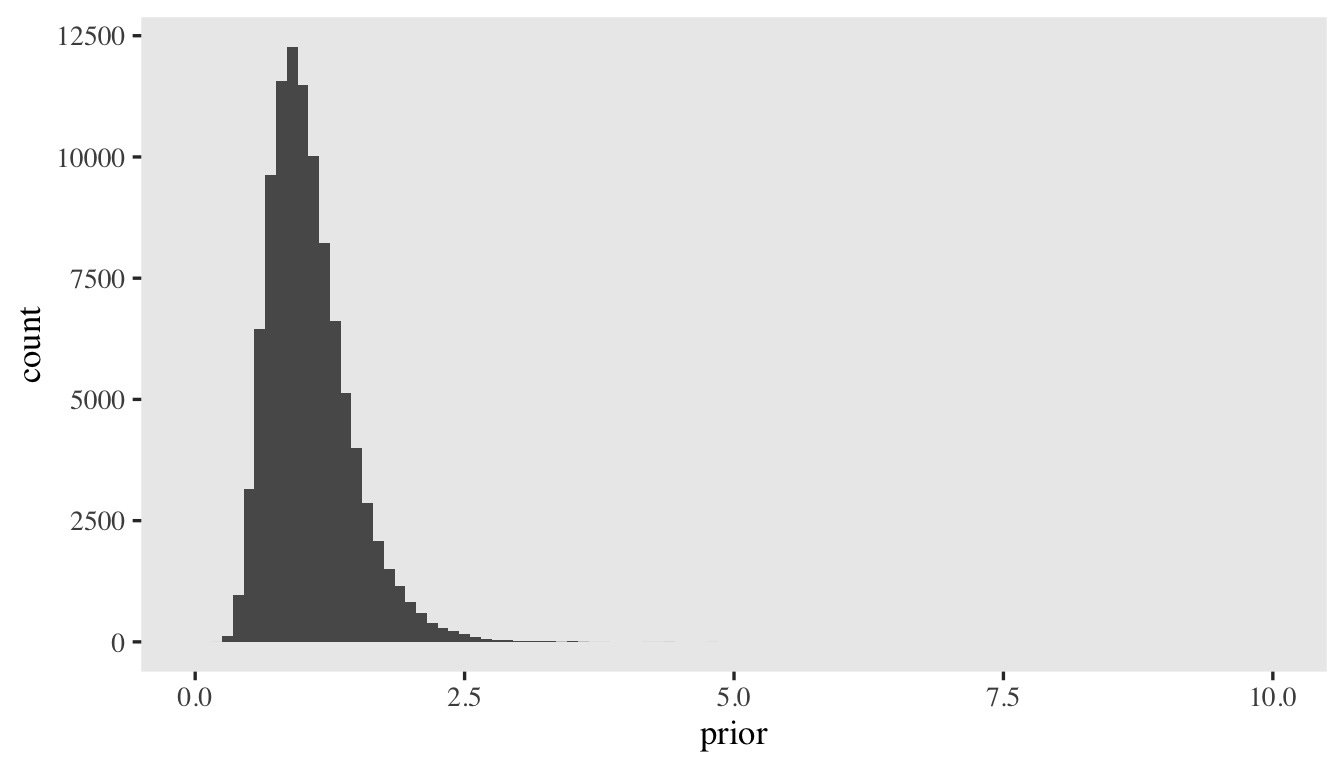
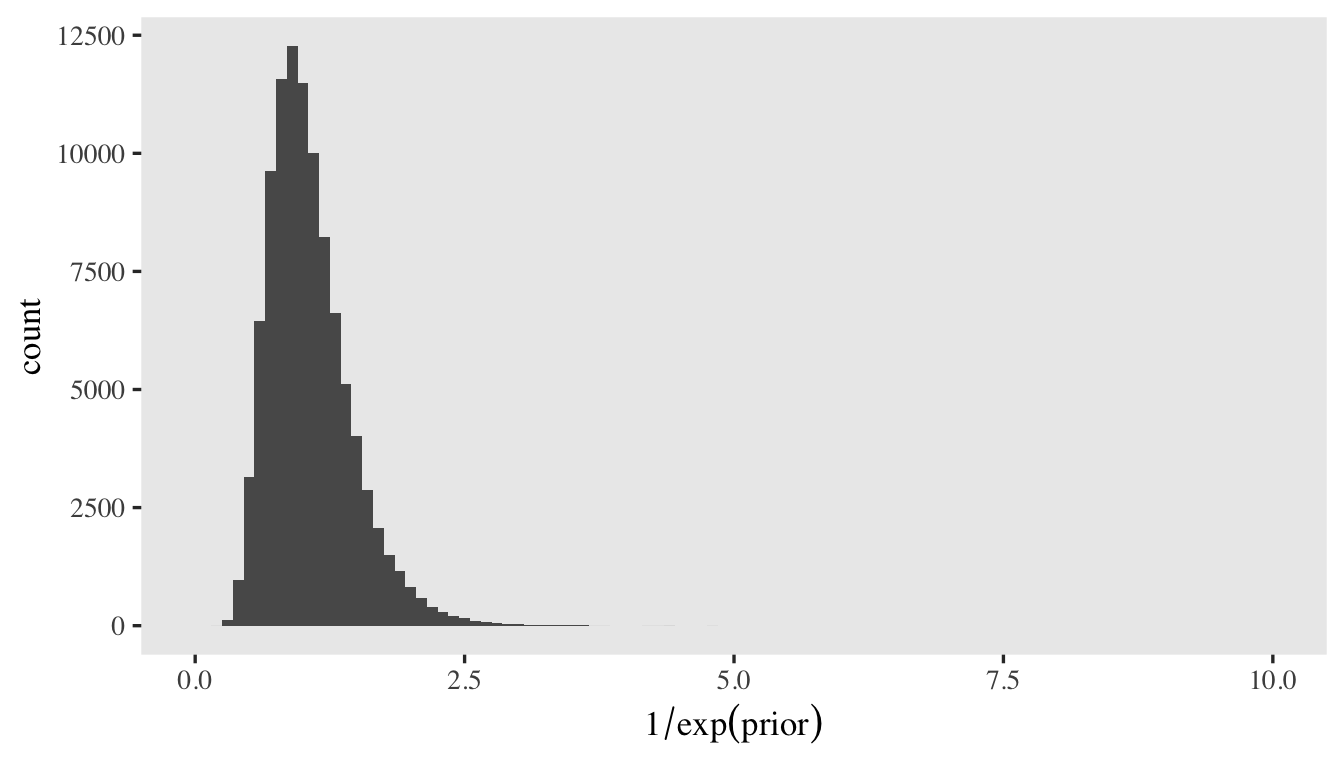
efronSteinParadoxStatistics1977

diff --git a/content/post/2021-12-29-notes-on-the-bayesian-cumulative-probit/index.html b/content/post/2021-12-29-notes-on-the-bayesian-cumulative-probit/index.html
@@ -619,7 +619,7 @@ tibble(sigma_hyperparameter = 1:10 / 10) %&gt;%
 <p>We can compute that value with <span class="math inline">\(\log(2) / 2\)</span>, too.</p>
 <pre class="r"><code>log(2) / 2</code></pre>
 <pre><code>## [1] 0.3465736</code></pre>
-<p>Here’s what that would look like in a histogram.</p>
+<p>Here’s a histogram of what that would look like in the <span class="math inline">\(1 / \exp(\cdot)\)</span> metric.</p>
 <pre class="r"><code>set.seed(1)
 
 tibble(prior = rnorm(n = 1e5, mean = 0, sd = log(2) / 2)) %&gt;%
@@ -627,6 +627,7 @@ tibble(prior = rnorm(n = 1e5, mean = 0, sd = log(2) / 2)) %&gt;%
   
   ggplot(aes(x = prior)) +
   geom_histogram(binwidth = 0.1) +
+  xlab(expression(1/exp(prior))) +
   coord_cartesian(xlim = c(0, 10))</code></pre>
 <p><img src="{{< blogdown/postref >}}index_files/figure-html/unnamed-chunk-30-1.png" width="672" /></p>
 <p>With that all in mind, we can now update our model formula to:</p>
@@ -665,7 +666,7 @@ fit3 &lt;- brm(
   seed = 1,
   init_r = 0.2
 )</code></pre>
-<p>Note how used the <code>0 + ...</code> syntax in the first line in the <code>lf()</code> function that set we set <code>cmc = FALSE</code> in the second line. As Bürkner noted in his <span class="citation">(<a href="#ref-burknerBayesianItemResponse2020" role="doc-biblioref">2020a</a>)</span> tutorial, it’s critical that you do this when attaching a model to <span class="math inline">\(\log(\alpha_i)\)</span>. If you leave these bits out, you might find that you are no longer keeping the reference category for <span class="math inline">\(\log(\alpha_i)\)</span> set to <span class="math inline">\(0\)</span>, which can wrack havoc on the model.</p>
+<p>Note how we used the <code>0 + ...</code> syntax in the first line in the <code>lf()</code> function and that set we set <code>cmc = FALSE</code> in the second line. As Bürkner noted in his <span class="citation">(<a href="#ref-burknerBayesianItemResponse2020" role="doc-biblioref">2020a</a>)</span> tutorial, it’s critical that you do this when attaching a model to <span class="math inline">\(\log(\alpha_i)\)</span>. If you leave these bits out, you might find that you are no longer keeping the reference category for <span class="math inline">\(\log(\alpha_i)\)</span> set to <span class="math inline">\(0\)</span>, which can wreak havoc on the model.</p>
 <p>Anyway, check the summary.</p>
 <pre class="r"><code>print(fit3)</code></pre>
 <pre><code>##  Family: cumulative 
@@ -689,7 +690,7 @@ fit3 &lt;- brm(
 ## Draws were sampled using sampling(NUTS). For each parameter, Bulk_ESS
 ## and Tail_ESS are effective sample size measures, and Rhat is the potential
 ## scale reduction factor on split chains (at convergence, Rhat = 1).</code></pre>
-<p>It can be challenging to interpret the <code>disc_male</code> coefficient directly. Keep in mind that larger values mean smaller relative values. Given how the reference value is <span class="math inline">\(0\)</span>, which equivalent to <span class="math inline">\(\sigma = 1\)</span>, this is the estimate of the latent standard deviation for men.</p>
+<p>It can be challenging to interpret the <code>disc_male</code> coefficient directly. Keep in mind that <em>larger</em> values mean <em>smaller</em> relative values on the <span class="math inline">\(\sigma\)</span> scale. Given how the reference value is <span class="math inline">\(0\)</span>, which equivalent to <span class="math inline">\(\sigma = 1\)</span>, this is the estimate of the latent standard deviation for men.</p>
 <pre class="r"><code>1 / exp(0 + fixef(fit3)[&quot;disc_male&quot;, -2])</code></pre>
 <pre><code>##  Estimate      Q2.5     Q97.5 
 ## 0.8873625 0.9976675 0.7883039</code></pre>
@@ -740,7 +741,7 @@ fit3 &lt;- brm(
 <p>If you wanted to set up the model so that <span class="math inline">\(95\%\)</span> of the prior probability allowed for a doubling of the variance, you’d need to set the upper range to the square root of <span class="math inline">\(2\)</span>.</p>
 <pre class="r"><code>sqrt(2)</code></pre>
 <pre><code>## [1] 1.414214</code></pre>
-<p>Now that we’ve updated the model to account for differences in <span class="math inline">\(\sigma\)</span>, we might also want to update our workflow for computing the population means for <code>rating</code>. The trick is now the <code>sd</code> argument within the <code>pnorm()</code> function should be conditional on the values for males or females. Here’s one way how.</p>
+<p>Anyway, now that we’ve updated the model to account for differences in <span class="math inline">\(\sigma\)</span>, we might also want to update our workflow for computing the population means for <code>rating</code>. The trick is now the <code>sd</code> argument within the <code>pnorm()</code> function should be conditional on the values for males or females. Here’s one way how.</p>
 <pre class="r"><code>as_draws_df(fit3) %&gt;% 
   # this also includes the column for b_disc_male
   select(.draw, starts_with(&quot;b_&quot;)) %&gt;% 
@@ -782,7 +783,7 @@ fit3 &lt;- brm(
 <div id="randomly-varying-latent-means." class="section level3">
 <h3>Randomly-varying latent means.</h3>
 <p>Up until now, we’ve been ignoring how this model has a multilevel structure. We have ratings nested within persons (<code>id</code>) and questions (<code>item</code>). Within cumulative probit models, the simplest way to account for that nesting is to add random intercepts to the latent mean, which will now be <span class="math inline">\(\mu_{ij}\)</span> for the <span class="math inline">\(i^\text{th}\)</span> person and the <span class="math inline">\(j^\text{th}\)</span> question.</p>
-<p>Starting slow, we’ll fist just add random intercepts for the persons with the model</p>
+<p>Starting slow, we’ll first just add random intercepts for the persons with the model</p>
 <p><span class="math display">\[
 \begin{align*}
 p(\text{rating} = k | \{ \tau_k \}, \mu_i) &amp; = \Phi(\tau_k - \mu_i) - \Phi(\tau_{k - 1} - \mu_i) \\
@@ -1029,7 +1030,7 @@ fit6 &lt;- brm(
 ## Draws were sampled using sampling(NUTS). For each parameter, Bulk_ESS
 ## and Tail_ESS are effective sample size measures, and Rhat is the potential
 ## scale reduction factor on split chains (at convergence, Rhat = 1).</code></pre>
-<p>It might be easier to get a sense of the <span class="math inline">\(\tau_{kj}\)</span> posteriors in a coefficient plot.</p>
+<p>It might be easier to get a sense of the <span class="math inline">\(\tau_{kj}\)</span> posteriors with a coefficient plot.</p>
 <pre class="r"><code>posterior_summary(fit6)[1:25, ] %&gt;% 
   data.frame() %&gt;% 
   mutate(tau = rep(1:5, times = 5),
@@ -1045,7 +1046,7 @@ fit6 &lt;- brm(
   coord_flip() +
   ylab(expression(Phi))</code></pre>
 <p><img src="{{< blogdown/postref >}}index_files/figure-html/unnamed-chunk-43-1.png" width="672" /></p>
-<p>You could use information criteria comparisons to decide on whether to allow them to vary across items or if it’s okay to prefer the more parsimonious model. IMO, thresholds across items are <em>a priori</em> different and should not be collapsed without strong theoretical or methodological justifications. In this case, I lose nothing by having them.</p>
+<p>You could use information criteria comparisons to decide on whether to allow them to vary across items or if it’s okay to prefer the more parsimonious model. IMO, thresholds across items are <em>a priori</em> different and should not be collapsed without strong theoretical or methodological justifications. In this case, it seems like I lose nothing by having them.</p>
 <p>Plus, there’s also the implications of the varying thresholds for the posterior-predictive distributions.</p>
 <pre class="r"><code>set.seed(1)
 pp_check(fit5, type = &quot;bars_grouped&quot;, group = &quot;item&quot;,
@@ -1086,7 +1087,7 @@ v_j &amp; \sim \mathcal N(0, \sigma_v) \\
 \color{blue}{\sigma_w} &amp; \sim \color{blue}{\operatorname{Exponential}(1)} \\
 \color{blue}{\sigma_x} &amp; \sim \color{blue}{\operatorname{Exponential}(1)} \color{black}{.}
 \end{align*}\]</span></p>
-<p>Though the <span class="math inline">\(\operatorname{Exponential}(1)\)</span> might be a good place to start with our new <span class="math inline">\(\sigma_w\)</span> and <span class="math inline">\(\sigma_x\)</span>, it might be best to ponder this a bit. Recall these are for the distribution of logged discrimination parameters. Since I’m no statistician or psychometrician, I’m not even sure what that means, which makes it hard to intuit whether the <span class="math inline">\(\operatorname{Exponential}(1)\)</span> prior makes sense for my data. A plot might help. Here we’ll simulate <span class="math inline">\(100{,}000\)</span> draws from the <span class="math inline">\(\operatorname{Exponential}(1)\)</span> prior, use those draws to simulate <span class="math inline">\(w_i\)</span> values from <span class="math inline">\(\mathcal N(0, \sigma_w)\)</span>, and then plot that distribution in the <span class="math inline">\(w_i\)</span>, <span class="math inline">\(\exp(w_i)\)</span> and <span class="math inline">\(1/\exp(w_i)\)</span> metrics.</p>
+<p>Though the <span class="math inline">\(\operatorname{Exponential}(1)\)</span> prior might be a good place to start with our new <span class="math inline">\(\sigma_w\)</span> and <span class="math inline">\(\sigma_x\)</span>, let’s ponder this a bit. Recall these are for the distribution of logged discrimination parameters. Since I’m no statistician or psychometrician, I’m not even sure what that means, which makes it hard to intuit whether the <span class="math inline">\(\operatorname{Exponential}(1)\)</span> prior makes sense for my data. A plot might help. Here we’ll simulate <span class="math inline">\(100{,}000\)</span> draws from the <span class="math inline">\(\operatorname{Exponential}(1)\)</span> prior, use those draws to simulate <span class="math inline">\(w_i\)</span> values from <span class="math inline">\(\mathcal N(0, \sigma_w)\)</span>, and then plot that distribution in the <span class="math inline">\(w_i\)</span>, <span class="math inline">\(\exp(w_i)\)</span> and <span class="math inline">\(1/\exp(w_i)\)</span> metrics.</p>
 <pre class="r"><code>set.seed(1)
 
 # simulate from the prior
@@ -1333,7 +1334,7 @@ colors &lt;- viridis::viridis_pal(option = &quot;A&quot;, end = 0.85, direction 
        y = NULL) +
   xlim(2, 4)</code></pre>
 <p><img src="{{< blogdown/postref >}}index_files/figure-html/unnamed-chunk-55-1.png" width="672" /></p>
-<p>At first glance, it might be upsetting that out posteriors for the item-level means no longer tightly line up with the sample means. However, keep in mind these were computed with a multilevel model, which will impose partial pooling toward the grand mean. Based on decades of hard work within statistics, we know that our partially-pooled means will be more likely generalize to new data than our sample means. This is why we model. Though we do want to understand our sample data, we also want to make inferences about other data from the population.</p>
+<p>At first glance, it might be upsetting that out posteriors for the item-level means no longer tightly line up with the sample means. However, keep in mind these were computed with a multilevel model, which will impose partial pooling toward the grand mean. Based on decades of hard work within statistics <span class="citation">(see <a href="#ref-efronSteinParadoxStatistics1977" role="doc-biblioref">Efron &amp; Morris, 1977</a>)</span>, we know that our partially-pooled means will be more likely generalize to new data than our sample means. This is why we model. Though we do want to understand our sample data, we also want to make inferences about other data from the population.</p>
 <p>Now that we have a full model accounting for all five Neuroticism items, we can use a similar approach to compute the population-level sum score. First, we’ll compute the sample mean of the sum score and save the value as <code>m_sum_score</code>.</p>
 <pre class="r"><code>m_sum_score &lt;- d %&gt;% 
   group_by(id) %&gt;% 
@@ -1731,6 +1732,9 @@ Bürkner, P.-C. (2018). Advanced <span>Bayesian</span> multilevel modeling with 
 </div>
 <div id="ref-R-brms" class="csl-entry">
 Bürkner, P.-C. (2020b). <em><span class="nocase">brms</span>: <span>Bayesian</span> regression models using ’<span>Stan</span>’</em>. <a href="https://CRAN.R-project.org/package=brms">https://CRAN.R-project.org/package=brms</a>
+</div>
+<div id="ref-efronSteinParadoxStatistics1977" class="csl-entry">
+Efron, B., &amp; Morris, C. (1977). Stein’s paradox in statistics. <em>Scientific American</em>, <em>236</em>(5), 119–127. <a href="https://doi.org/10.1038/scientificamerican0577-119">https://doi.org/10.1038/scientificamerican0577-119</a>
 </div>
 <div id="ref-goldberg1999broad" class="csl-entry">
 Goldberg, L. R. (1999). A broad-bandwidth, public domain, personality inventory measuring the lower-level facets of several five-factor models. In I. Mervielde, I. Deary, F. De Fruyt, &amp; F. Ostendorf (Eds.), <em>Personality psychology in <span>Europe</span></em> (Vol. 7, pp. 7–28). <span>Tilburg University Press</span>.
